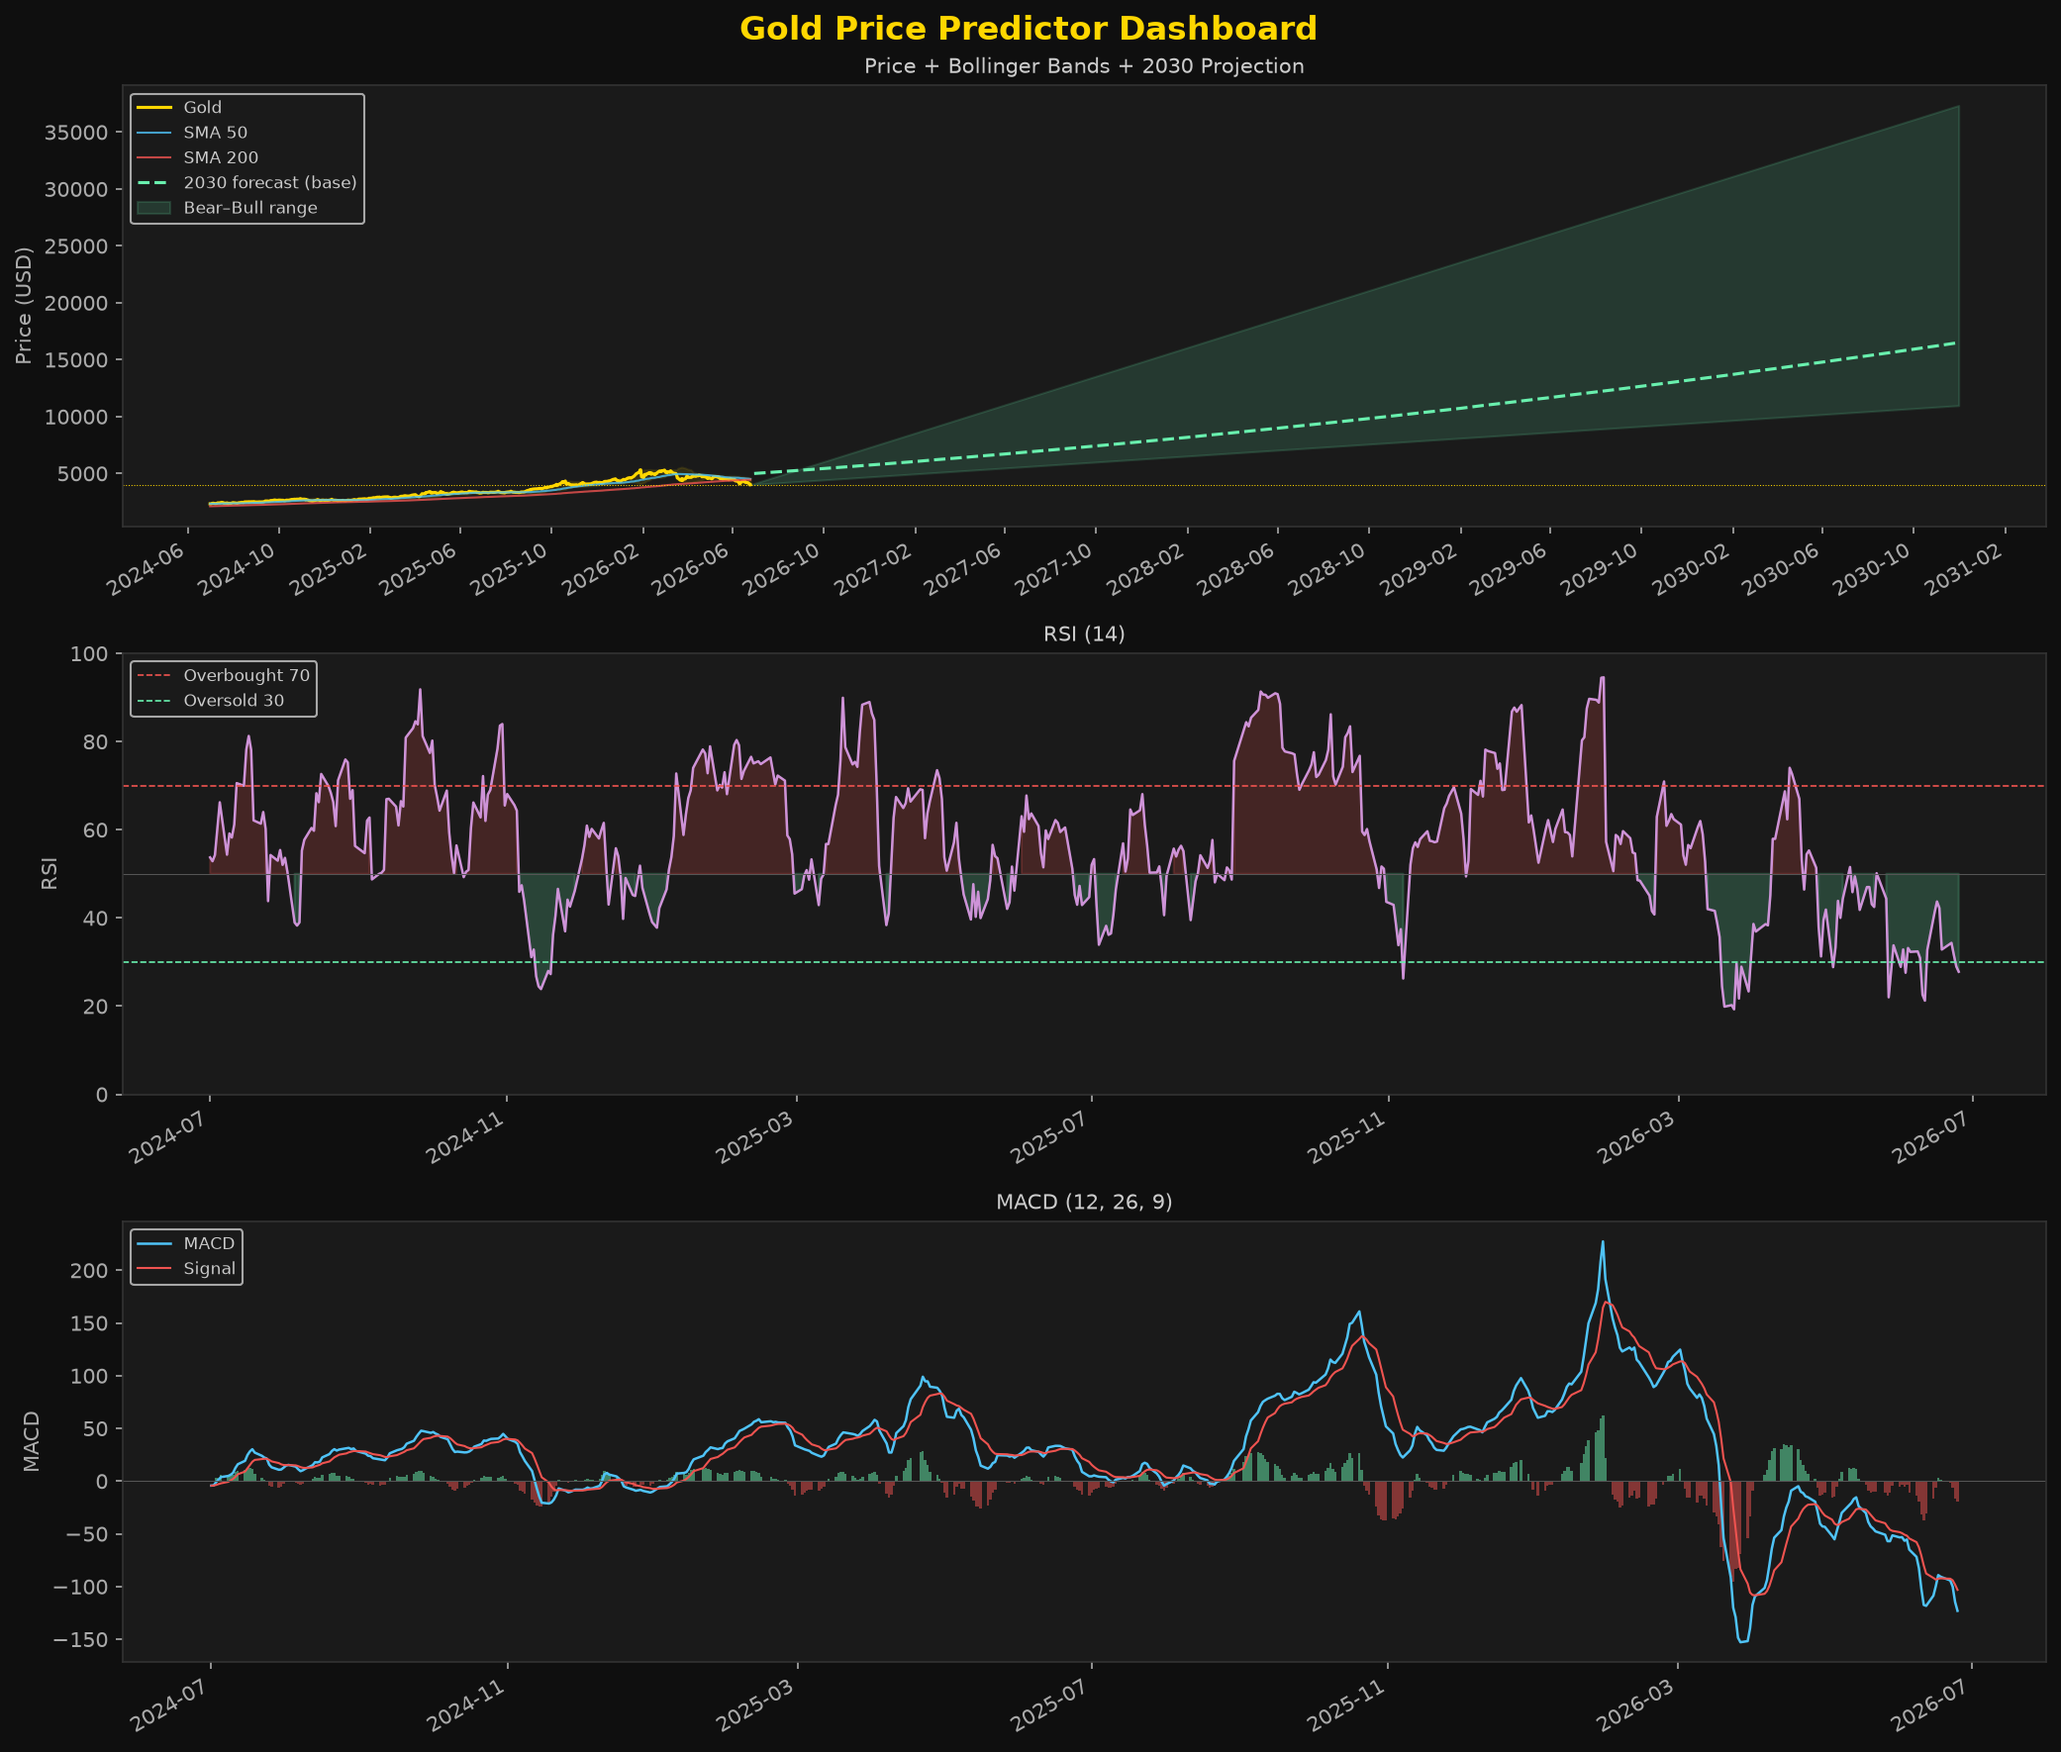
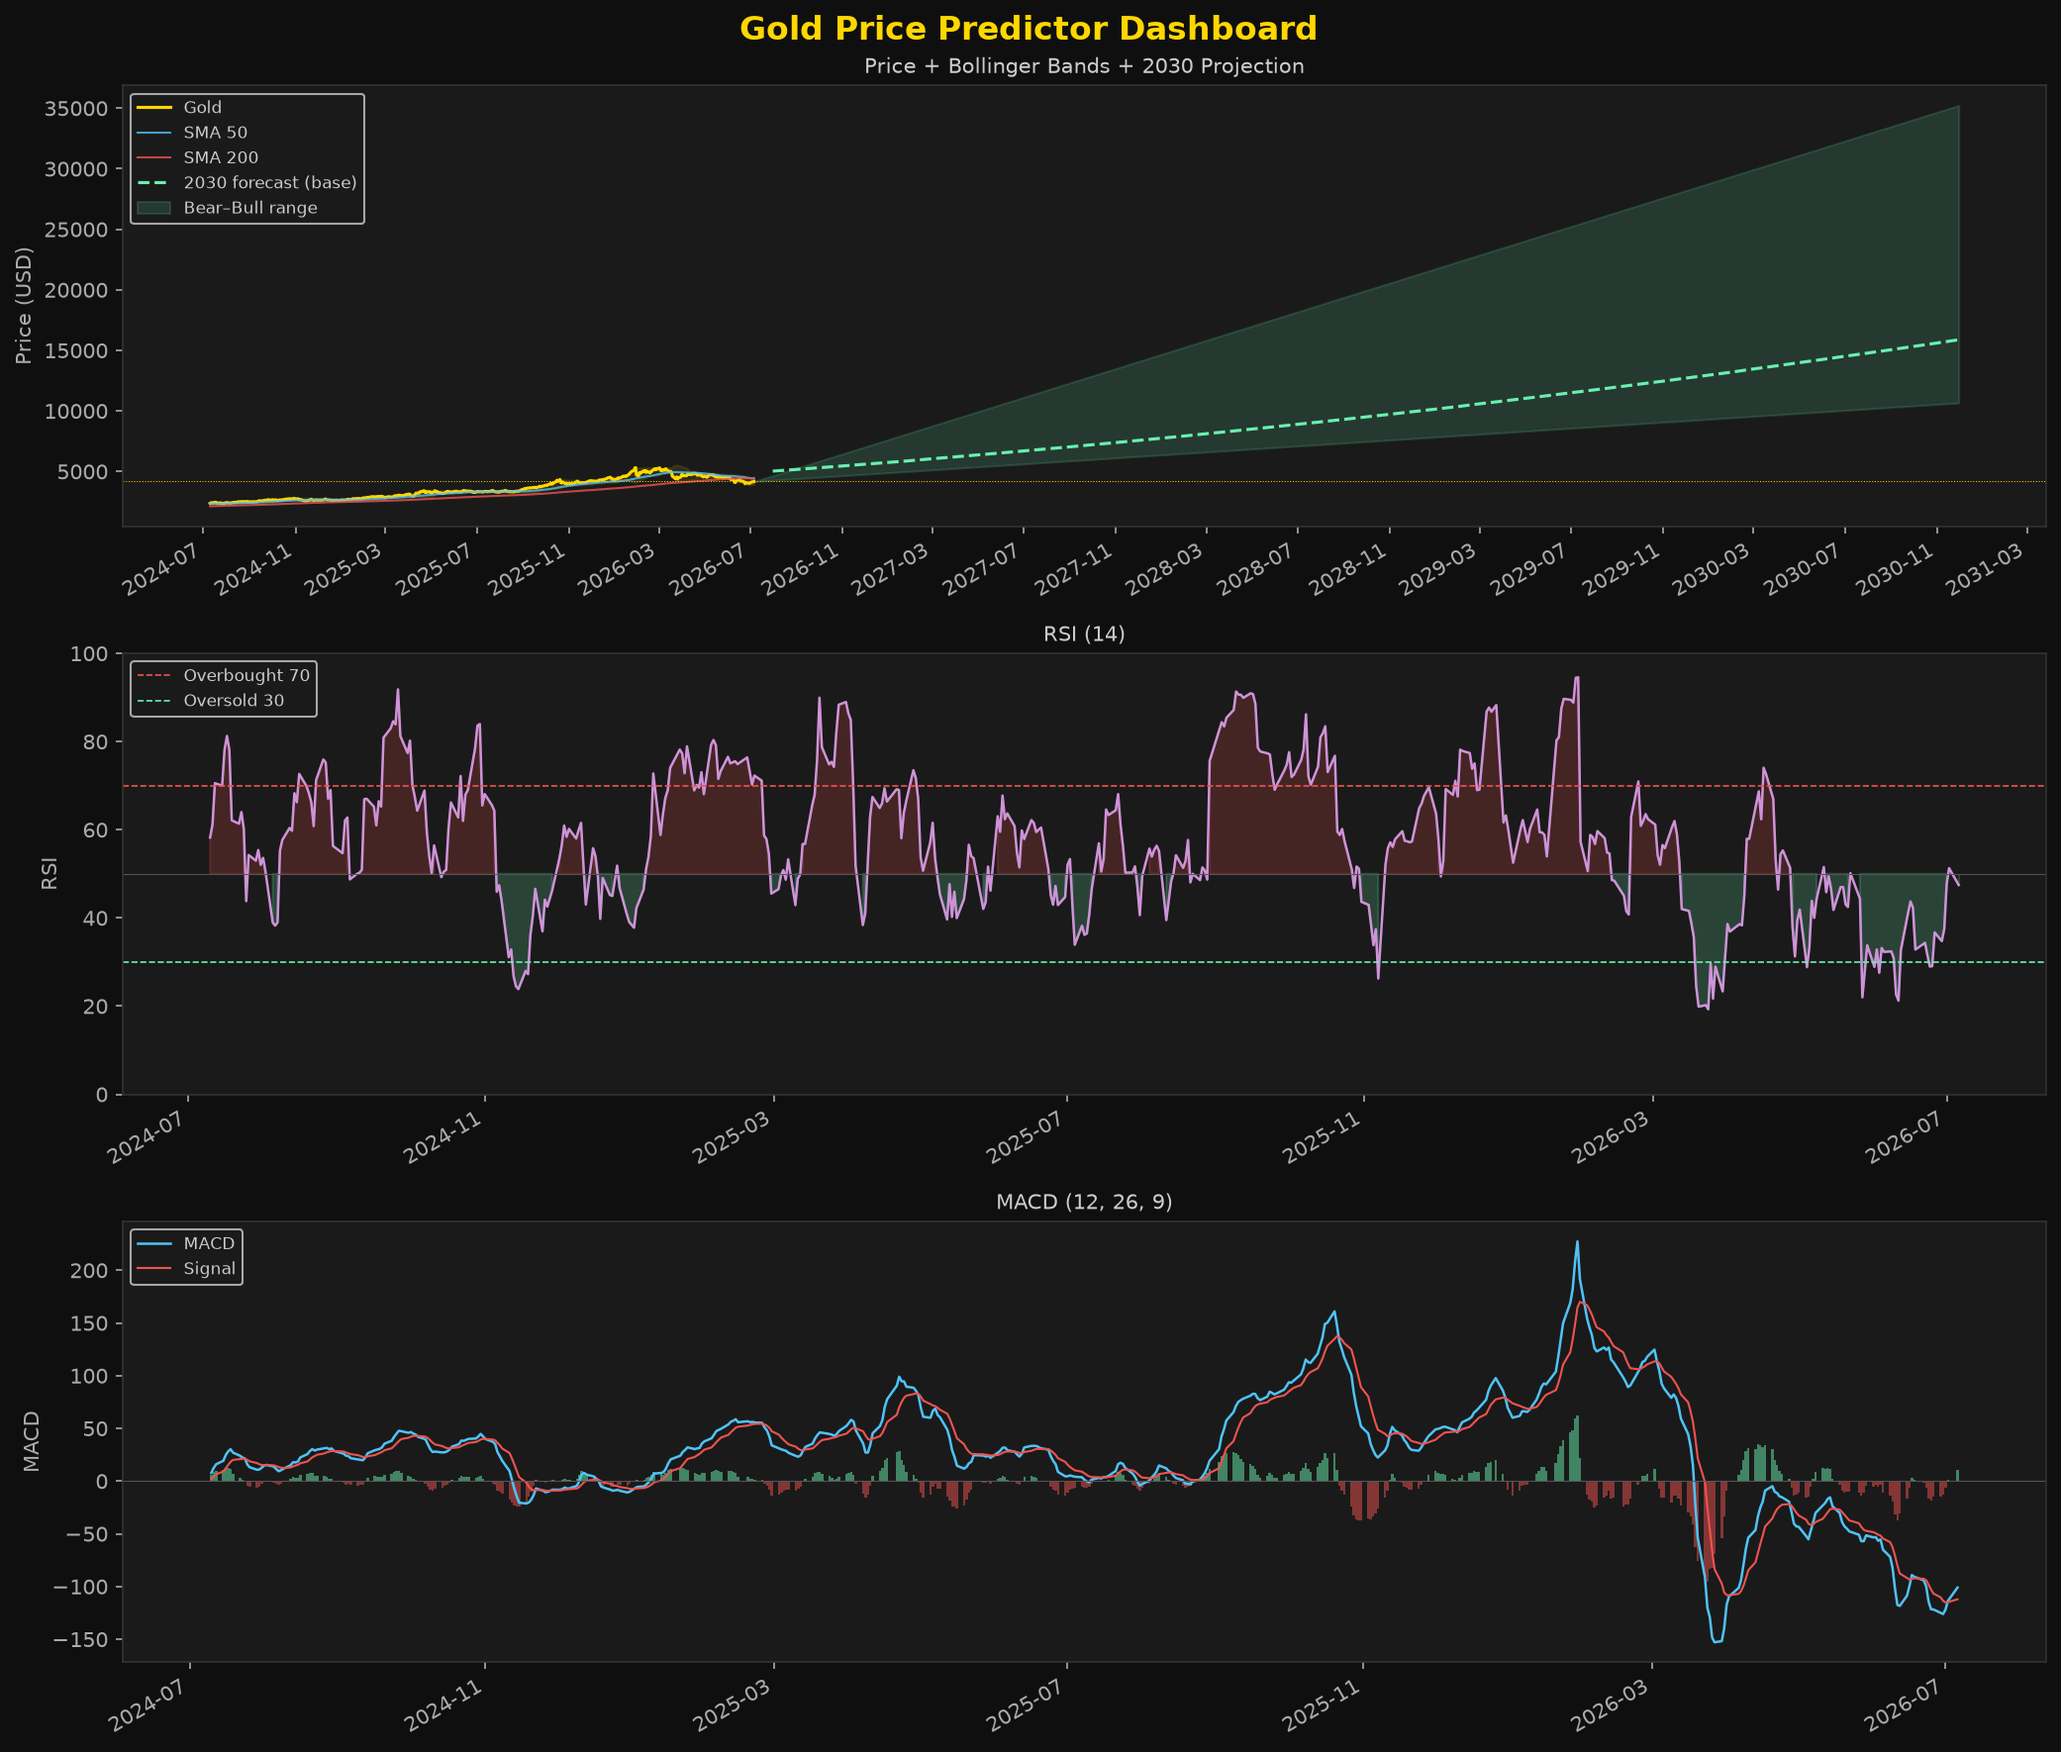
update gold & silver prediction

diff --git a/_base.py b/_base.py
@@ -104,15 +104,34 @@ def yearly_targets(price, mu, vol, macro_calendar):
     Year-by-year prediction table with macro multipliers applied.
     macro_calendar: { year: (multiplier, sentiment_str, driver_text) }
     Returns list of (year, bear, base, bull, sentiment, driver).
+
+    Uses proper log-normal projection:
+      base = price * exp(mu_ann * t)
+      bull = price * exp(mu_ann * t + 2 * vol_ann * sqrt(t)) * macro_adj
+      bear = price * exp(mu_ann * t - 1.5 * vol_ann * sqrt(t))
+    mu and vol come in as DAILY values — annualised here.
     """
-    rows = []
+    rows        = []
+    mu_ann      = mu  * 252          # annualise daily log-return mean
+    vol_ann     = vol * np.sqrt(252) # annualise daily log-return std
+    now         = datetime.now()
+
     for yr in range(2026, 2031):
-        days   = (datetime(yr, 12, 31) - datetime.now()).days
-        t_base = price * np.exp(mu * days)
-        t_bull = price * np.exp(mu * days + 2 * vol * np.sqrt(days))
-        t_bear = price * np.exp(mu * days - 2 * vol * np.sqrt(days))
+        t = max((datetime(yr, 12, 31) - now).days / 365.0, 0.01)
+
+        t_base = price * np.exp(mu_ann * t)
+        t_bull = price * np.exp(mu_ann * t + 2.0 * vol_ann * np.sqrt(t))
+        t_bear = price * np.exp(mu_ann * t - 1.5 * vol_ann * np.sqrt(t))
+
         adj, sentiment, drivers = macro_calendar.get(yr, (1.0, NEUTRAL, "No specific event"))
-        rows.append((yr, t_bear / adj, t_base * adj, t_bull * adj, sentiment, drivers))
+
+        # Macro multiplier applied to bull and blended into base — no artificial cap
+        final_bull = t_bull * adj
+        final_base = t_base * (1 + (adj - 1) * 0.35)
+        final_bear = t_bear  # bear case intentionally unaffected by macro optimism
+
+        rows.append((yr, round(final_bear, 2), round(final_base, 2), round(final_bull, 2), sentiment, drivers))
+
     return rows
 
 # ─────────────────────────────────────────────

diff --git a/gold_predict.py b/gold_predict.py
@@ -118,16 +118,19 @@ gold_monthly, future_X, future_y, poly, mu_log, vol_log = price_targets(gold)
 # 6. YEAR-BY-YEAR MACRO CALENDAR
 # ─────────────────────────────────────────────
 GOLD_MACRO_CALENDAR = {
-    2026: (1.08, BULLISH,
-           "Fed pivot → USD weak; debt ceiling crisis; central bank buying at record pace; ETF inflows up"),
-    2027: (1.06, BULLISH,
-           "US recession risk; flight to safety; de-dollarization deepens; India/China demand up"),
-    2028: (1.10, VERY_BULLISH,
-           "US election year — fiscal expansion; real rates negative again; CB reserves shift accelerates"),
-    2029: (1.05, BULLISH,
-           "Post-election fiscal hangover; US debt >$40T; inflation re-acceleration; mining supply tight"),
-    2030: (1.07, BULLISH,
-           "De-dollarization milestone; BRICS+ reserve system; ESG limits new mines; Asian wealth surge"),
+    # multiplier applied on top of 2-sigma log-normal bull case.
+    # Calibrated on real cycle data: 2018-2020 gold +75%, 2022-2025 gold +90%+.
+    # BULLISH yr = ~1.15-1.20x; VERY_BULLISH = ~1.25-1.40x on bull leg.
+    2026: (1.18, BULLISH,
+           "Fed rate cuts → USD weakens; US debt ceiling crisis; CB buying 1000t+/yr; ETF inflows surge"),
+    2027: (1.15, BULLISH,
+           "US recession confirmed; flight-to-safety bid; de-dollarization: RU/CN/BRICS settle in gold"),
+    2028: (1.30, VERY_BULLISH,
+           "US election — massive fiscal stimulus pledged; real rates deeply negative; CB reserve shift peaks"),
+    2029: (1.20, BULLISH,
+           "Post-election debt explosion; US debt >$42T; stagflation risk; new mine supply at multi-decade low"),
+    2030: (1.35, VERY_BULLISH,
+           "BRICS+ commodity settlement system live; ESG blocks new mines; Asian middle class wealth surge"),
 }
 
 yearly_gold = yearly_targets(price, mu_log, vol_log, GOLD_MACRO_CALENDAR)

diff --git a/silver_predict.py b/silver_predict.py
@@ -108,16 +108,19 @@ silver_monthly, future_X, future_y, poly, mu_log, vol_log = price_targets(silver
 # 5. YEAR-BY-YEAR MACRO CALENDAR
 # ─────────────────────────────────────────────
 SILVER_MACRO_CALENDAR = {
-    2026: (1.10, BULLISH,
-           "Solar installs record; EV scaling; Fed cuts weaken USD; GSR mean reversion ongoing"),
-    2027: (1.15, VERY_BULLISH,
-           "Green energy capex peak; 5G silver paste demand; supply deficit widens 3rd yr"),
-    2028: (1.12, VERY_BULLISH,
-           "AI data centers (silver cooling/PCBs); US election fiscal push; ETF inflows surge"),
-    2029: (1.08, BULLISH,
-           "EV penetration >35%; primary mine depletion; BRICS+ monetary silver demand"),
-    2030: (1.15, VERY_BULLISH,
-           "Net-zero peak demand; perovskite solar 10x silver; structural deficit 200M oz/yr"),
+    # Silver is more volatile than gold (beta ~1.5-2x) — multipliers calibrated accordingly.
+    # 2020 cycle: silver $12→$30 (+150%) in 6 months. 2011 peak: $49.
+    # Industrial + monetary dual demand means super-cycle moves are larger.
+    2026: (1.22, BULLISH,
+           "Record solar panel installs (1.5TW); EV boom; Fed cuts → USD weak; GSR mean reversion to 60:1"),
+    2027: (1.35, VERY_BULLISH,
+           "Green energy capex peak $1T+/yr; 5G silver paste; supply deficit 3rd consecutive year >150M oz"),
+    2028: (1.30, VERY_BULLISH,
+           "AI data center silver (PCBs/cooling); US election fiscal flood; ETF inflows; GSR compresses to 50:1"),
+    2029: (1.25, BULLISH,
+           "EV penetration >40% globally; primary mine depletion; BRICS+ monetary silver reserve building"),
+    2030: (1.40, VERY_BULLISH,
+           "Net-zero peak: perovskite solar needs 10x silver/panel; structural deficit 250M oz/yr; price discovery"),
 }
 
 yearly_silver = yearly_targets(price, mu_log, vol_log, SILVER_MACRO_CALENDAR)
